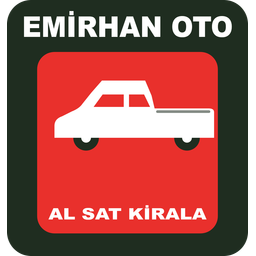
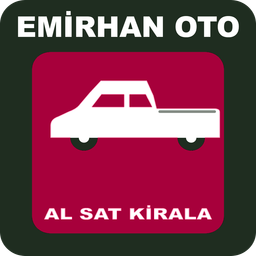
Modern SaaS esintili tasarim yenilemesi ve marka kirmizisi guncellemesi
Referans alinan modern site tasarimindan ilham alinarak: kart bilesenlerine
(rounded-2xl, shadow-sm), renkli ikon rozetlerine, hero'da yuzen istatistik
kartlarina ve kapanista gradyanli CTA banner'a gecildi; footer'a iletisim
kart satiri eklendi. Ayrica marka kirmizisi daha derin/bordo bir tona
(#a7003b) cevrildi ve logo + turetilmis ikonlar (favicon, OG gorseli) bu
yeni tona gore otomatik olarak yeniden renklendirildi.

diff --git a/src/components/site/footer.tsx b/src/components/site/footer.tsx
@@ -64,34 +64,30 @@ export function Footer() {
 
         <div className="space-y-3">
           <h3 className="text-sm font-semibold text-white">İletişim</h3>
-          <ul className="space-y-2 text-sm text-white/60">
-            <li className="flex items-start gap-2">
-              <MapPin className="mt-0.5 h-4 w-4 shrink-0 text-brand" />
-              <span>{siteConfig.address}</span>
-            </li>
-            <li className="flex items-center gap-2">
+          <div className="grid grid-cols-1 gap-2">
+            <a
+              href={siteConfig.phoneHref}
+              className="flex items-center gap-2.5 rounded-xl border border-white/10 bg-white/5 px-3 py-2.5 text-sm text-white/70 transition-colors hover:border-brand/40 hover:text-white"
+            >
               <Phone className="h-4 w-4 shrink-0 text-brand" />
-              <a
-                href={siteConfig.phoneHref}
-                className="transition-colors hover:text-white"
-              >
-                {siteConfig.phoneDisplay}
-              </a>
-            </li>
-            <li className="flex items-center gap-2">
+              {siteConfig.phoneDisplay}
+            </a>
+            <a
+              href={`mailto:${siteConfig.email}`}
+              className="flex items-center gap-2.5 rounded-xl border border-white/10 bg-white/5 px-3 py-2.5 text-sm text-white/70 transition-colors hover:border-brand/40 hover:text-white"
+            >
               <Mail className="h-4 w-4 shrink-0 text-brand" />
-              <a
-                href={`mailto:${siteConfig.email}`}
-                className="transition-colors hover:text-white"
-              >
-                {siteConfig.email}
-              </a>
-            </li>
-            <li className="flex items-center gap-2">
+              {siteConfig.email}
+            </a>
+            <div className="flex items-start gap-2.5 rounded-xl border border-white/10 bg-white/5 px-3 py-2.5 text-sm text-white/70">
+              <MapPin className="mt-0.5 h-4 w-4 shrink-0 text-brand" />
+              {siteConfig.address}
+            </div>
+            <div className="flex items-center gap-2.5 rounded-xl border border-white/10 bg-white/5 px-3 py-2.5 text-sm text-white/70">
               <Clock className="h-4 w-4 shrink-0 text-brand" />
-              <span>Her gün {siteConfig.workingHours}</span>
-            </li>
-          </ul>
+              Her gün {siteConfig.workingHours}
+            </div>
+          </div>
         </div>
       </div>
       <div className="border-t border-white/10 py-4 text-center text-xs text-white/40">

diff --git a/src/components/site/cta-banner.tsx b/src/components/site/cta-banner.tsx
@@ -1,0 +1,58 @@
+import Link from "next/link";
+import { ArrowRight, MessageCircle } from "lucide-react";
+import { Button } from "@/components/ui/button";
+import { buildWhatsAppUrl, siteConfig } from "@/lib/site-config";
+
+export function CtaBanner() {
+  return (
+    <section className="mx-auto max-w-7xl px-4 py-10 sm:px-6 sm:py-12 lg:px-8">
+      <div className="relative overflow-hidden rounded-3xl bg-[linear-gradient(120deg,var(--brand)_0%,oklch(0.32_0.05_150)_100%)] px-6 py-12 text-center sm:px-12 sm:py-16">
+        <div
+          className="pointer-events-none absolute inset-0 opacity-[0.08]"
+          style={{
+            backgroundImage:
+              "radial-gradient(circle at 20% 20%, white 0%, transparent 45%), radial-gradient(circle at 85% 80%, white 0%, transparent 40%)",
+          }}
+        />
+        <div className="relative mx-auto max-w-2xl">
+          <h2 className="text-2xl font-semibold tracking-tight text-white sm:text-3xl lg:text-4xl">
+            Hayalinizdeki Araca Bugün Kavuşun
+          </h2>
+          <p className="mt-3 text-sm text-white/80 sm:text-base">
+            Güncel stoğumuzu inceleyin veya ekibimizle doğrudan WhatsApp&apos;tan iletişime
+            geçin — size en uygun aracı birlikte bulalım.
+          </p>
+          <div className="mt-7 flex flex-wrap items-center justify-center gap-3">
+            <Button
+              size="lg"
+              className="bg-white text-foreground shadow-lg hover:bg-white/90"
+              nativeButton={false}
+              render={<Link href="/araclarimiz" />}
+            >
+              Araçlarımızı İncele
+              <ArrowRight className="h-4 w-4 transition-transform group-hover/button:translate-x-0.5" />
+            </Button>
+            <Button
+              size="lg"
+              variant="outline"
+              className="border-white/30 bg-transparent text-white hover:bg-white/10 hover:text-white"
+              nativeButton={false}
+              render={
+                <a
+                  href={buildWhatsAppUrl(
+                    `Merhaba ${siteConfig.name}, araç seçimi konusunda bilgi almak istiyorum.`
+                  )}
+                  target="_blank"
+                  rel="noopener noreferrer"
+                />
+              }
+            >
+              <MessageCircle className="h-4 w-4" />
+              WhatsApp&apos;tan Ulaş
+            </Button>
+          </div>
+        </div>
+      </div>
+    </section>
+  );
+}

diff --git a/src/app/globals.css b/src/app/globals.css
@@ -57,7 +57,7 @@
   --card-foreground: oklch(0.16 0 0);
   --popover: oklch(1 0 0);
   --popover-foreground: oklch(0.16 0 0);
-  --primary: oklch(0.55 0.22 25);
+  --primary: oklch(0.46 0.19 12);
   --primary-foreground: oklch(0.985 0 0);
   --secondary: oklch(0.96 0 0);
   --secondary-foreground: oklch(0.205 0 0);
@@ -68,7 +68,7 @@
   --destructive: oklch(0.577 0.245 27.325);
   --border: oklch(0.9 0 0);
   --input: oklch(0.9 0 0);
-  --ring: oklch(0.55 0.22 25);
+  --ring: oklch(0.46 0.19 12);
   --chart-1: oklch(0.87 0 0);
   --chart-2: oklch(0.556 0 0);
   --chart-3: oklch(0.439 0 0);
@@ -77,13 +77,13 @@
   --radius: 0.625rem;
   --sidebar: oklch(1 0 0);
   --sidebar-foreground: oklch(0.16 0 0);
-  --sidebar-primary: oklch(0.55 0.22 25);
+  --sidebar-primary: oklch(0.46 0.19 12);
   --sidebar-primary-foreground: oklch(0.985 0 0);
   --sidebar-accent: oklch(0.96 0 0);
   --sidebar-accent-foreground: oklch(0.205 0 0);
   --sidebar-border: oklch(0.9 0 0);
-  --sidebar-ring: oklch(0.55 0.22 25);
-  --brand: oklch(0.55 0.22 25);
+  --sidebar-ring: oklch(0.46 0.19 12);
+  --brand: oklch(0.46 0.19 12);
   --brand-foreground: oklch(0.985 0 0);
 }
 
@@ -94,7 +94,7 @@
   --card-foreground: oklch(0.97 0 0);
   --popover: oklch(0.22 0 0);
   --popover-foreground: oklch(0.97 0 0);
-  --primary: oklch(0.6 0.22 25);
+  --primary: oklch(0.6 0.19 12);
   --primary-foreground: oklch(0.985 0 0);
   --secondary: oklch(0.27 0 0);
   --secondary-foreground: oklch(0.97 0 0);
@@ -105,7 +105,7 @@
   --destructive: oklch(0.704 0.191 22.216);
   --border: oklch(1 0 0 / 12%);
   --input: oklch(1 0 0 / 15%);
-  --ring: oklch(0.6 0.22 25);
+  --ring: oklch(0.6 0.19 12);
   --chart-1: oklch(0.87 0 0);
   --chart-2: oklch(0.556 0 0);
   --chart-3: oklch(0.439 0 0);
@@ -113,13 +113,13 @@
   --chart-5: oklch(0.269 0 0);
   --sidebar: oklch(0.19 0 0);
   --sidebar-foreground: oklch(0.97 0 0);
-  --sidebar-primary: oklch(0.6 0.22 25);
+  --sidebar-primary: oklch(0.6 0.19 12);
   --sidebar-primary-foreground: oklch(0.985 0 0);
   --sidebar-accent: oklch(0.27 0 0);
   --sidebar-accent-foreground: oklch(0.97 0 0);
   --sidebar-border: oklch(1 0 0 / 12%);
-  --sidebar-ring: oklch(0.6 0.22 25);
-  --brand: oklch(0.6 0.22 25);
+  --sidebar-ring: oklch(0.6 0.19 12);
+  --brand: oklch(0.6 0.19 12);
   --brand-foreground: oklch(0.985 0 0);
 }
 

diff --git a/src/components/site/hero.tsx b/src/components/site/hero.tsx
@@ -1,13 +1,13 @@
 import Link from "next/link";
-import { ArrowRight } from "lucide-react";
+import { ArrowRight, Award, Car, Wallet } from "lucide-react";
 import { Button } from "@/components/ui/button";
 import { ValuationDialogTrigger } from "@/components/site/valuation-dialog";
 import { siteConfig } from "@/lib/site-config";
 
 const STATS = [
-  { value: "36 Yıl", label: "Sektör Tecrübesi" },
-  { value: "15+", label: "Güncel Araç Stoku" },
-  { value: "750K - 5M ₺", label: "Fiyat Aralığı" },
+  { icon: Award, value: "36 Yıl", label: "Sektör Tecrübesi" },
+  { icon: Car, value: "15+", label: "Güncel Araç Stoku" },
+  { icon: Wallet, value: "750K - 5M ₺", label: "Fiyat Aralığı" },
 ];
 
 export function Hero() {
@@ -57,13 +57,21 @@ export function Hero() {
             </ValuationDialogTrigger>
           </div>
 
-          <dl className="mt-10 grid grid-cols-3 divide-x divide-white/20 border-t border-white/20 pt-6">
+          <dl className="mt-10 flex flex-wrap gap-3">
             {STATS.map((stat) => (
-              <div key={stat.label} className="px-4 first:pl-0">
-                <dt className="text-xl font-bold tabular-nums text-white sm:text-2xl">
-                  {stat.value}
-                </dt>
-                <dd className="mt-1 text-xs text-white/60">{stat.label}</dd>
+              <div
+                key={stat.label}
+                className="flex items-center gap-3 rounded-2xl border border-white/15 bg-white/10 px-4 py-3 backdrop-blur-md"
+              >
+                <span className="flex h-9 w-9 shrink-0 items-center justify-center rounded-full bg-brand/90 text-brand-foreground">
+                  <stat.icon className="h-4 w-4" />
+                </span>
+                <div>
+                  <dt className="text-base font-bold tabular-nums text-white sm:text-lg">
+                    {stat.value}
+                  </dt>
+                  <dd className="text-[11px] text-white/65">{stat.label}</dd>
+                </div>
               </div>
             ))}
           </dl>

diff --git a/src/components/site/services-section.tsx b/src/components/site/services-section.tsx
@@ -29,13 +29,13 @@ export function ServicesSection() {
         {SERVICES.map((service, index) => (
           <div
             key={service.title}
-            className="group flex flex-col gap-4 rounded-xl border border-border bg-card p-6 transition-all duration-300 hover:-translate-y-0.5 hover:border-brand/30 hover:shadow-[0_16px_40px_-20px_rgba(0,0,0,0.7)]"
+            className="group flex flex-col gap-4 rounded-2xl border border-border bg-card p-6 shadow-sm transition-all duration-300 hover:-translate-y-1 hover:border-brand/30 hover:shadow-[0_20px_44px_-20px_rgba(0,0,0,0.35)]"
           >
             <div className="flex items-start justify-between">
-              <span className="flex h-11 w-11 shrink-0 items-center justify-center rounded-lg bg-muted text-muted-foreground transition-colors duration-300 group-hover:bg-brand group-hover:text-brand-foreground">
+              <span className="flex h-11 w-11 shrink-0 items-center justify-center rounded-xl bg-brand/10 text-brand transition-colors duration-300 group-hover:bg-brand group-hover:text-brand-foreground">
                 <service.icon className="h-5 w-5" />
               </span>
-              <span className="text-xs font-semibold tabular-nums text-muted-foreground/50">
+              <span className="rounded-full bg-muted px-2 py-0.5 text-[11px] font-semibold tabular-nums text-muted-foreground">
                 {String(index + 1).padStart(2, "0")}
               </span>
             </div>

diff --git a/src/components/site/trust-section.tsx b/src/components/site/trust-section.tsx
@@ -36,13 +36,13 @@ export function TrustSection() {
         {ITEMS.map((item, index) => (
           <div
             key={item.title}
-            className="group relative rounded-xl border border-border bg-card p-6 transition-all duration-300 hover:-translate-y-0.5 hover:border-brand/30 hover:shadow-[0_16px_40px_-20px_rgba(0,0,0,0.7)]"
+            className="group relative rounded-2xl border border-border bg-card p-6 shadow-sm transition-all duration-300 hover:-translate-y-1 hover:border-brand/30 hover:shadow-[0_20px_44px_-20px_rgba(0,0,0,0.35)]"
           >
             <div className="flex items-start justify-between">
-              <span className="flex h-11 w-11 items-center justify-center rounded-lg bg-muted text-muted-foreground transition-colors duration-300 group-hover:bg-brand group-hover:text-brand-foreground">
+              <span className="flex h-11 w-11 items-center justify-center rounded-xl bg-brand/10 text-brand transition-colors duration-300 group-hover:bg-brand group-hover:text-brand-foreground">
                 <item.icon className="h-5 w-5" />
               </span>
-              <span className="text-xs font-semibold tabular-nums text-muted-foreground/50">
+              <span className="rounded-full bg-muted px-2 py-0.5 text-[11px] font-semibold tabular-nums text-muted-foreground">
                 {String(index + 1).padStart(2, "0")}
               </span>
             </div>

diff --git a/src/components/site/category-shortcuts.tsx b/src/components/site/category-shortcuts.tsx
@@ -27,9 +27,9 @@ export function CategoryShortcuts() {
             <Link
               key={value}
               href={`/araclarimiz?category=${value}`}
-              className="group flex flex-col items-center gap-3 rounded-xl border border-border bg-card px-4 py-6 text-center transition-all duration-300 hover:-translate-y-0.5 hover:border-brand/30 hover:shadow-[0_16px_40px_-20px_rgba(0,0,0,0.7)]"
+              className="group flex flex-col items-center gap-3 rounded-2xl border border-border bg-card px-4 py-6 text-center shadow-sm transition-all duration-300 hover:-translate-y-1 hover:border-brand/30 hover:shadow-[0_20px_44px_-20px_rgba(0,0,0,0.35)]"
             >
-              <span className="flex h-11 w-11 items-center justify-center rounded-lg bg-muted text-muted-foreground transition-colors duration-300 group-hover:bg-brand group-hover:text-brand-foreground">
+              <span className="flex h-11 w-11 items-center justify-center rounded-xl bg-brand/10 text-brand transition-colors duration-300 group-hover:bg-brand group-hover:text-brand-foreground">
                 <Icon className="h-5 w-5" />
               </span>
               <span className="text-sm font-medium">{label}</span>

diff --git a/src/components/vehicles/stock-alert-form.tsx b/src/components/vehicles/stock-alert-form.tsx
@@ -23,7 +23,7 @@ export function StockAlertForm() {
 
   if (state.status === "success") {
     return (
-      <div className="flex items-center gap-3 rounded-xl border border-border bg-card p-5 text-sm">
+      <div className="flex items-center gap-3 rounded-2xl border border-border bg-card shadow-sm p-5 text-sm">
         <CheckCircle2 className="h-5 w-5 shrink-0 text-emerald-600" />
         <p>Kaydınız alındı, uygun araç geldiğinde sizi bilgilendireceğiz.</p>
       </div>
@@ -33,7 +33,7 @@ export function StockAlertForm() {
   return (
     <form
       action={action}
-      className="flex flex-col gap-3 rounded-xl border border-border bg-card p-5 sm:flex-row sm:items-end"
+      className="flex flex-col gap-3 rounded-2xl border border-border bg-card shadow-sm p-5 sm:flex-row sm:items-end"
     >
       <div className="flex items-start gap-2 sm:w-56">
         <BellPlus className="mt-2 h-4 w-4 shrink-0 text-brand" />

diff --git a/src/components/site/contact-message-form.tsx b/src/components/site/contact-message-form.tsx
@@ -23,7 +23,7 @@ export function ContactMessageForm() {
 
   if (state.status === "success") {
     return (
-      <div className="flex flex-col items-center gap-3 rounded-xl border border-border bg-card p-8 text-center">
+      <div className="flex flex-col items-center gap-3 rounded-2xl border border-border bg-card shadow-sm p-8 text-center">
         <CheckCircle2 className="h-9 w-9 text-emerald-600" />
         <p className="font-medium">Mesajınız alındı.</p>
         <p className="text-sm text-muted-foreground">
@@ -34,7 +34,7 @@ export function ContactMessageForm() {
   }
 
   return (
-    <form action={action} className="space-y-4 rounded-xl border border-border bg-card p-6">
+    <form action={action} className="space-y-4 rounded-2xl border border-border bg-card shadow-sm p-6">
       <h2 className="text-sm font-semibold uppercase tracking-wide text-muted-foreground">
         Mesaj Bırakın
       </h2>

diff --git a/src/components/vehicles/vehicle-card.tsx b/src/components/vehicles/vehicle-card.tsx
@@ -43,7 +43,7 @@ export function VehicleCard({ vehicle }: { vehicle: VehicleCardData }) {
   const isLowMileage = vehicle.mileage < ageYears * AVERAGE_KM_PER_YEAR * LOW_MILEAGE_RATIO;
 
   return (
-    <div className="group relative flex flex-col overflow-hidden rounded-xl border border-border bg-card transition-all duration-300 hover:-translate-y-1 hover:border-brand/30 hover:shadow-[0_0_0_1px_color-mix(in_oklch,var(--brand),transparent_75%),0_16px_40px_-16px_rgba(0,0,0,0.7)]">
+    <div className="group relative flex flex-col overflow-hidden rounded-2xl border border-border bg-card shadow-sm transition-all duration-300 hover:-translate-y-1 hover:border-brand/30 hover:shadow-[0_0_0_1px_color-mix(in_oklch,var(--brand),transparent_75%),0_16px_40px_-16px_rgba(0,0,0,0.7)]">
       <div className="relative aspect-[4/3] w-full overflow-hidden bg-muted">
         {image ? (
           <Image

diff --git a/src/components/rentals/rental-vehicle-card.tsx b/src/components/rentals/rental-vehicle-card.tsx
@@ -24,7 +24,7 @@ export function RentalVehicleCard({ vehicle }: { vehicle: RentalVehicleCardData 
   const image = vehicle.images[0];
 
   return (
-    <div className="group relative flex flex-col overflow-hidden rounded-xl border border-border bg-card transition-all duration-300 hover:-translate-y-1 hover:border-brand/30 hover:shadow-[0_0_0_1px_color-mix(in_oklch,var(--brand),transparent_75%),0_16px_40px_-16px_rgba(0,0,0,0.7)]">
+    <div className="group relative flex flex-col overflow-hidden rounded-2xl border border-border bg-card shadow-sm transition-all duration-300 hover:-translate-y-1 hover:border-brand/30 hover:shadow-[0_0_0_1px_color-mix(in_oklch,var(--brand),transparent_75%),0_16px_40px_-16px_rgba(0,0,0,0.7)]">
       <div className="relative aspect-[4/3] w-full overflow-hidden bg-muted">
         {image ? (
           <Image

diff --git a/src/components/vehicles/featured-vehicles-section.tsx b/src/components/vehicles/featured-vehicles-section.tsx
@@ -32,7 +32,7 @@ export async function FeaturedVehiclesSection() {
 
       <Link
         href={`/araclarimiz/${spotlight.slug}`}
-        className="group mb-6 grid grid-cols-1 overflow-hidden rounded-xl border border-border bg-card transition-all duration-300 hover:border-brand/30 hover:shadow-[0_24px_60px_-24px_rgba(0,0,0,0.7)] lg:grid-cols-2"
+        className="group mb-6 grid grid-cols-1 overflow-hidden rounded-2xl border border-border bg-card shadow-sm transition-all duration-300 hover:border-brand/30 hover:shadow-[0_24px_60px_-24px_rgba(0,0,0,0.7)] lg:grid-cols-2"
       >
         <div className="relative aspect-[16/10] w-full overflow-hidden bg-muted lg:aspect-auto">
           {spotlightImage ? (
